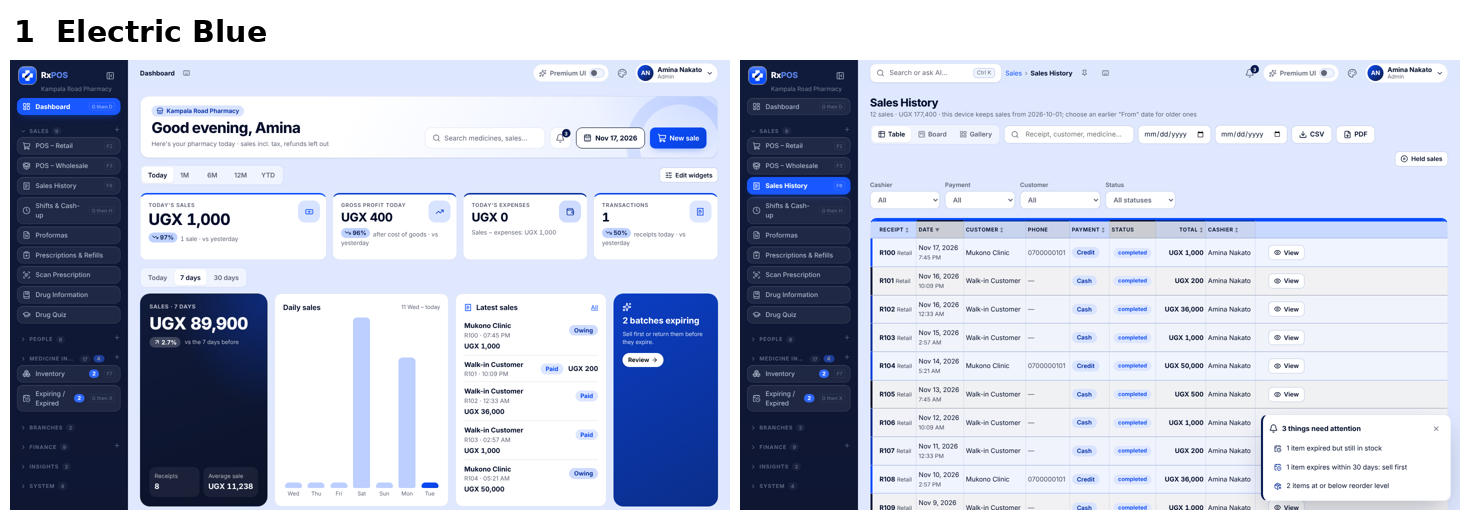
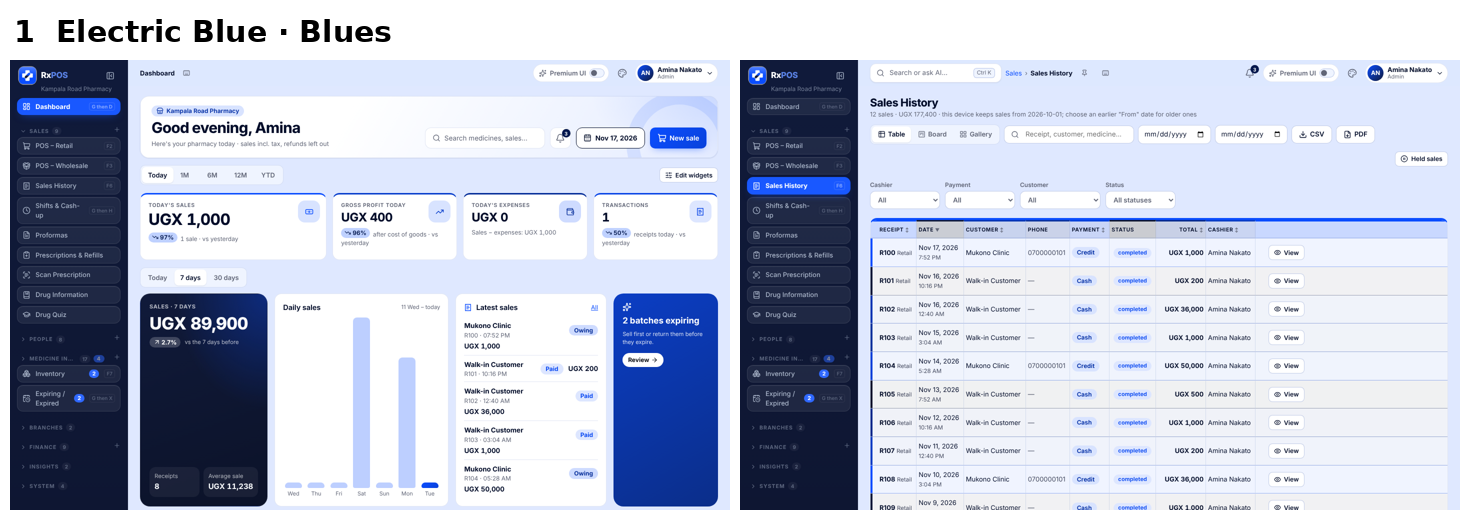
15 two-colour themes in five sets (Blues, Greens, Purples, Warm & Lime, Dark & Calm): Sky Blue, Ocean Cyan, Emerald Mint, Amber Gold and Steel Blue added
Claude-Session: https://claude.ai/code/session_015uMCYZdrYXjtxk4scNeyiP

Changed region(s): [[0.8571, 0.8, 0.9796, 0.9846], [0.1837, 0.0308, 0.2755, 0.0923]]

diff --git a/src/themes.js b/src/themes.js
@@ -1,13 +1,13 @@
 import { LOGO_SVG } from './logomark.js';
 // Colour themes. Each theme is a light or dark base plus its own palette, applied as CSS variables. Since 17 Nov 2026
-// (the owner's references and review), 10 two-colour themes: colour 1 is strong (the menu, buttons, the active tab, headings),
+// (the owner's references and review), 15 two-colour themes in five sets: colour 1 is strong (the menu, buttons, the active tab, headings),
 // colour 2 is soft (the page, cards, table headings and row stripes); text is near black or white. Warnings, tables and
 // pills use shades of the same two colours (themeVars), with their words and icons, so every page keeps to two colours.
 // Older themes map to the closest new one (RETIRED). The owner chooses which themes each pharmacy may use.
 
 const T = (id, name, base, c, inspired = '', group = '') => ({ id, name, base, c, inspired, group });
 /** The groups of the theme menu, in order */
-export const THEME_GROUPS = ['Bold sidebars', 'Dark sidebars', 'Soft tints'];
+export const THEME_GROUPS = ['Blues', 'Greens', 'Purples', 'Warm & Lime', 'Dark & Calm'];
 
 const hexToRgb = (h) => { const n = parseInt(h.slice(1), 16); return [(n >> 16) & 255, (n >> 8) & 255, n & 255]; };
 const rgba = (h, a) => `rgba(${hexToRgb(h).join(', ')}, ${a})`;
@@ -55,27 +55,34 @@ const duo = (id, name, group, { c1, c2, side = c1, sideText, base = 'light', ins
 };
 
 export const THEMES = [
-  // Bold sidebars: the menu in colour 1, the pages tinted with colour 2
-  duo('electric-blue', 'Electric Blue', 'Bold sidebars', { c1: '#0a4dff', c2: '#dfe8ff', side: '#101a3a', strong: true, inspired: 'Deep blue menu, bright blue pills' }),
-  duo('royal-purple', 'Royal Purple', 'Bold sidebars', { c1: '#6d4ae8', c2: '#f4f1fd', side: '#1e1433', inspired: 'Deep purple menu with white words, violet actions' }),
-  duo('forest-green', 'Forest Green', 'Bold sidebars', { c1: '#1e8c4e', c2: '#dcefe3', side: '#0f2419', strong: true, inspired: 'Green menu, green-washed pages' }),
-  // Dark sidebars and the dark theme
-  duo('night-lime', 'Charcoal Lime', 'Dark sidebars', { c1: '#c8f169', c2: '#f4f4f0', side: '#1f1f2a', inspired: 'Charcoal menu, lime pills and buttons with dark words' }),
-  duo('charcoal-lime', 'Lime Charcoal', 'Dark sidebars', { c1: '#1f1f2a', c2: '#eef7d6', side: '#c8f169', sideText: '#1f1f2a', strong: true, inspired: 'Lime menu with charcoal words, charcoal actions' }),
-  duo('midnight-indigo', 'Midnight Indigo', 'Dark sidebars', { c1: '#5b5bf0', c2: '#e6e6fb', side: '#1b1d2e', strong: true, inspired: 'Midnight menu, indigo actions' }),
-  duo('navy-teal', 'RxPOS Navy Teal', 'Dark sidebars', { c1: '#14b8a6', c2: '#0a2233', side: '#0f2a44', base: 'dark', strong: true, inspired: 'Navy and teal: the RxPOS till' }),
-  // Soft tints: the whole page washed in colour 2
-  duo('lavender', 'Lavender', 'Soft tints', { c1: '#7451eb', c2: '#e4dcff', side: '#1f1a33', strong: true, inspired: 'Violet on lavender' }),
-  duo('sage', 'Sage', 'Soft tints', { c1: '#2f6b45', c2: '#e3eee1', side: '#18241b', strong: true, inspired: 'Deep sage menu, green pills' }),
-  duo('mint-teal', 'Mint Teal', 'Soft tints', { c1: '#0f8a8a', c2: '#cfe6e6', side: '#0f2222', strong: true, inspired: 'Teal on mint, the RxPOS colour' }),
+  // Blues
+  duo('electric-blue', 'Electric Blue', 'Blues', { c1: '#0a4dff', c2: '#dfe8ff', side: '#101a3a', strong: true, inspired: 'Deep blue menu, bright blue pills' }),
+  duo('sky-blue', 'Sky Blue', 'Blues', { c1: '#38bdf8', c2: '#e8f5fd', side: '#0c1b2b', strong: true, inspired: 'Deep navy menu, sky-blue pills' }),
+  duo('ocean-cyan', 'Ocean Cyan', 'Blues', { c1: '#06b6d4', c2: '#e3f6fa', side: '#0b2530', strong: true, inspired: 'Deep ocean menu, cyan pills' }),
+  // Greens
+  duo('forest-green', 'Forest Green', 'Greens', { c1: '#1e8c4e', c2: '#dcefe3', side: '#0f2419', strong: true, inspired: 'Deep green menu, green pills' }),
+  duo('emerald-mint', 'Emerald Mint', 'Greens', { c1: '#10b981', c2: '#e4f7ef', side: '#0b221a', strong: true, inspired: 'Deep green menu, emerald pills' }),
+  duo('mint-teal', 'Mint Teal', 'Greens', { c1: '#0f8a8a', c2: '#cfe6e6', side: '#0f2222', strong: true, inspired: 'Teal on mint, the RxPOS colour' }),
+  // Purples
+  duo('royal-purple', 'Royal Purple', 'Purples', { c1: '#6d4ae8', c2: '#f4f1fd', side: '#1e1433', inspired: 'Deep purple menu, violet pills' }),
+  duo('lavender', 'Lavender', 'Purples', { c1: '#7451eb', c2: '#e4dcff', side: '#1f1a33', strong: true, inspired: 'Violet on lavender' }),
+  duo('midnight-indigo', 'Midnight Indigo', 'Purples', { c1: '#5b5bf0', c2: '#e6e6fb', side: '#1b1d2e', strong: true, inspired: 'Midnight menu, indigo pills' }),
+  // Warm & Lime
+  duo('amber-gold', 'Amber Gold', 'Warm & Lime', { c1: '#f5b301', c2: '#fdf6e3', side: '#241c0a', strong: true, inspired: 'Deep brown menu, gold pills with dark words' }),
+  duo('night-lime', 'Charcoal Lime', 'Warm & Lime', { c1: '#c8f169', c2: '#f4f4f0', side: '#1f1f2a', inspired: 'Charcoal menu, lime pills and buttons with dark words' }),
+  duo('charcoal-lime', 'Lime Charcoal', 'Warm & Lime', { c1: '#1f1f2a', c2: '#eef7d6', side: '#c8f169', sideText: '#1f1f2a', strong: true, inspired: 'Lime menu, charcoal pills' }),
+  // Dark & Calm
+  duo('navy-teal', 'RxPOS Navy Teal', 'Dark & Calm', { c1: '#14b8a6', c2: '#0a2233', side: '#0f2a44', base: 'dark', strong: true, inspired: 'Navy and teal: the RxPOS till' }),
+  duo('steel-blue', 'Steel Blue', 'Dark & Calm', { c1: '#4f7cac', c2: '#edf1f6', side: '#161c26', strong: true, inspired: 'Slate menu, steel-blue pills: calm for long shifts' }),
+  duo('sage', 'Sage', 'Dark & Calm', { c1: '#2f6b45', c2: '#e3eee1', side: '#18241b', strong: true, inspired: 'Deep sage menu, green pills' }),
 ];
 /** Themes retired → the new theme closest to each, so a saved choice or an owner's list keeps working */
 export const RETIRED = {
-  'daylight-clinical': 'mint-teal', cobalt: 'electric-blue', 'royal-violet': 'royal-purple', sunrise: 'mint-teal', 'charcoal-sky': 'midnight-indigo',
-  'lime-studio': 'charcoal-lime', 'aqua-navy': 'electric-blue', 'cobalt-blue': 'electric-blue', 'sunny-orange': 'mint-teal', oled: 'navy-teal', 'midnight-pro': 'navy-teal',
-  light: 'mint-teal', 'hybrid-light': 'mint-teal', 'solarized-light': 'mint-teal', 'clinic-blue': 'electric-blue', mint: 'forest-green',
-  'rose-dawn': 'mint-teal', sand: 'mint-teal', coral: 'mint-teal', 'github-light': 'midnight-indigo', 'nord-snow': 'electric-blue',
-  'soft-grey': 'midnight-indigo', 'teal-glass': 'mint-teal', paper: 'mint-teal',
+  'daylight-clinical': 'mint-teal', cobalt: 'electric-blue', 'royal-violet': 'royal-purple', sunrise: 'amber-gold', 'charcoal-sky': 'steel-blue',
+  'lime-studio': 'charcoal-lime', 'aqua-navy': 'ocean-cyan', 'cobalt-blue': 'electric-blue', 'sunny-orange': 'amber-gold', oled: 'navy-teal', 'midnight-pro': 'navy-teal',
+  light: 'mint-teal', 'hybrid-light': 'mint-teal', 'solarized-light': 'mint-teal', 'clinic-blue': 'sky-blue', mint: 'emerald-mint',
+  'rose-dawn': 'amber-gold', sand: 'amber-gold', coral: 'amber-gold', 'github-light': 'steel-blue', 'nord-snow': 'electric-blue',
+  'soft-grey': 'steel-blue', 'teal-glass': 'mint-teal', paper: 'mint-teal',
   dark: 'navy-teal', 'hybrid-dark': 'navy-teal', 'tokyo-night': 'navy-teal', nord: 'navy-teal', dracula: 'navy-teal', mocha: 'navy-teal',
   'solarized-dark': 'navy-teal', 'one-dark': 'navy-teal', 'rose-pine': 'navy-teal', forest: 'navy-teal', ocean: 'navy-teal',
   gruvbox: 'navy-teal', 'github-dark': 'navy-teal', 'gold-night': 'navy-teal', 'ember-forge': 'navy-teal', 'contrast-dark': 'navy-teal',
